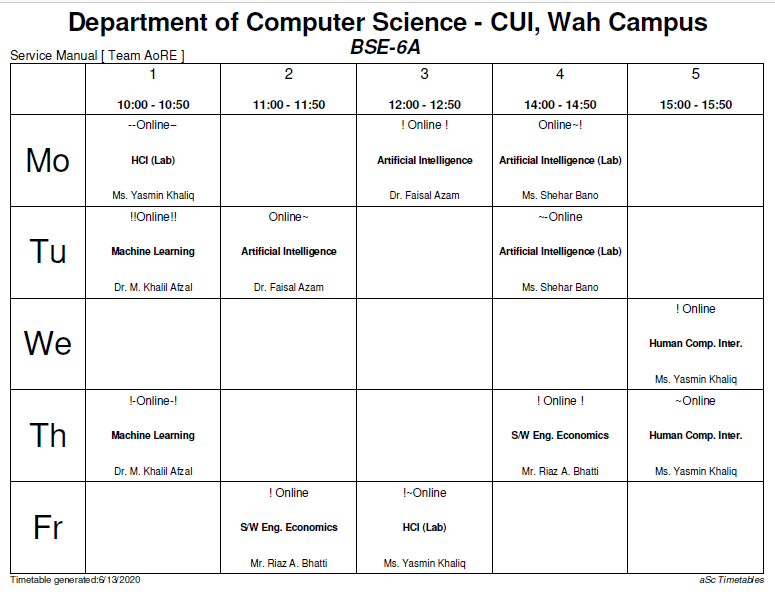
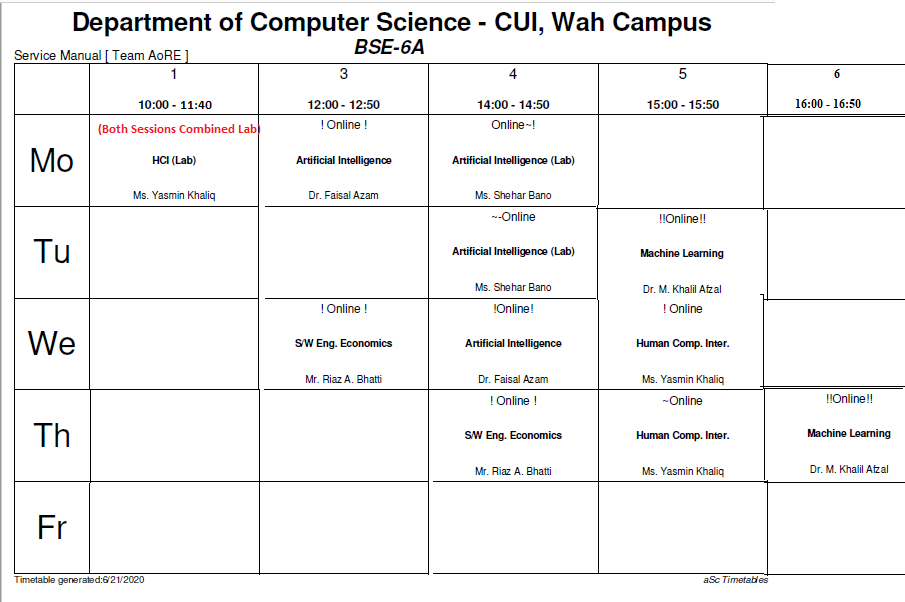
added timetable new

diff --git a/index.html b/index.html
@@ -738,7 +738,7 @@
                         <div class="tab-pane fade" id="nav-time" role="tabpanel" aria-labelledby="nav-time-tab">
                             <br>
                             <center>
-                                <img class="img-fluid" src="timetable2.png" alt="">
+                                <img class="img-fluid" src="timetable.png" alt="">
                             </center>
                         </div>
 
